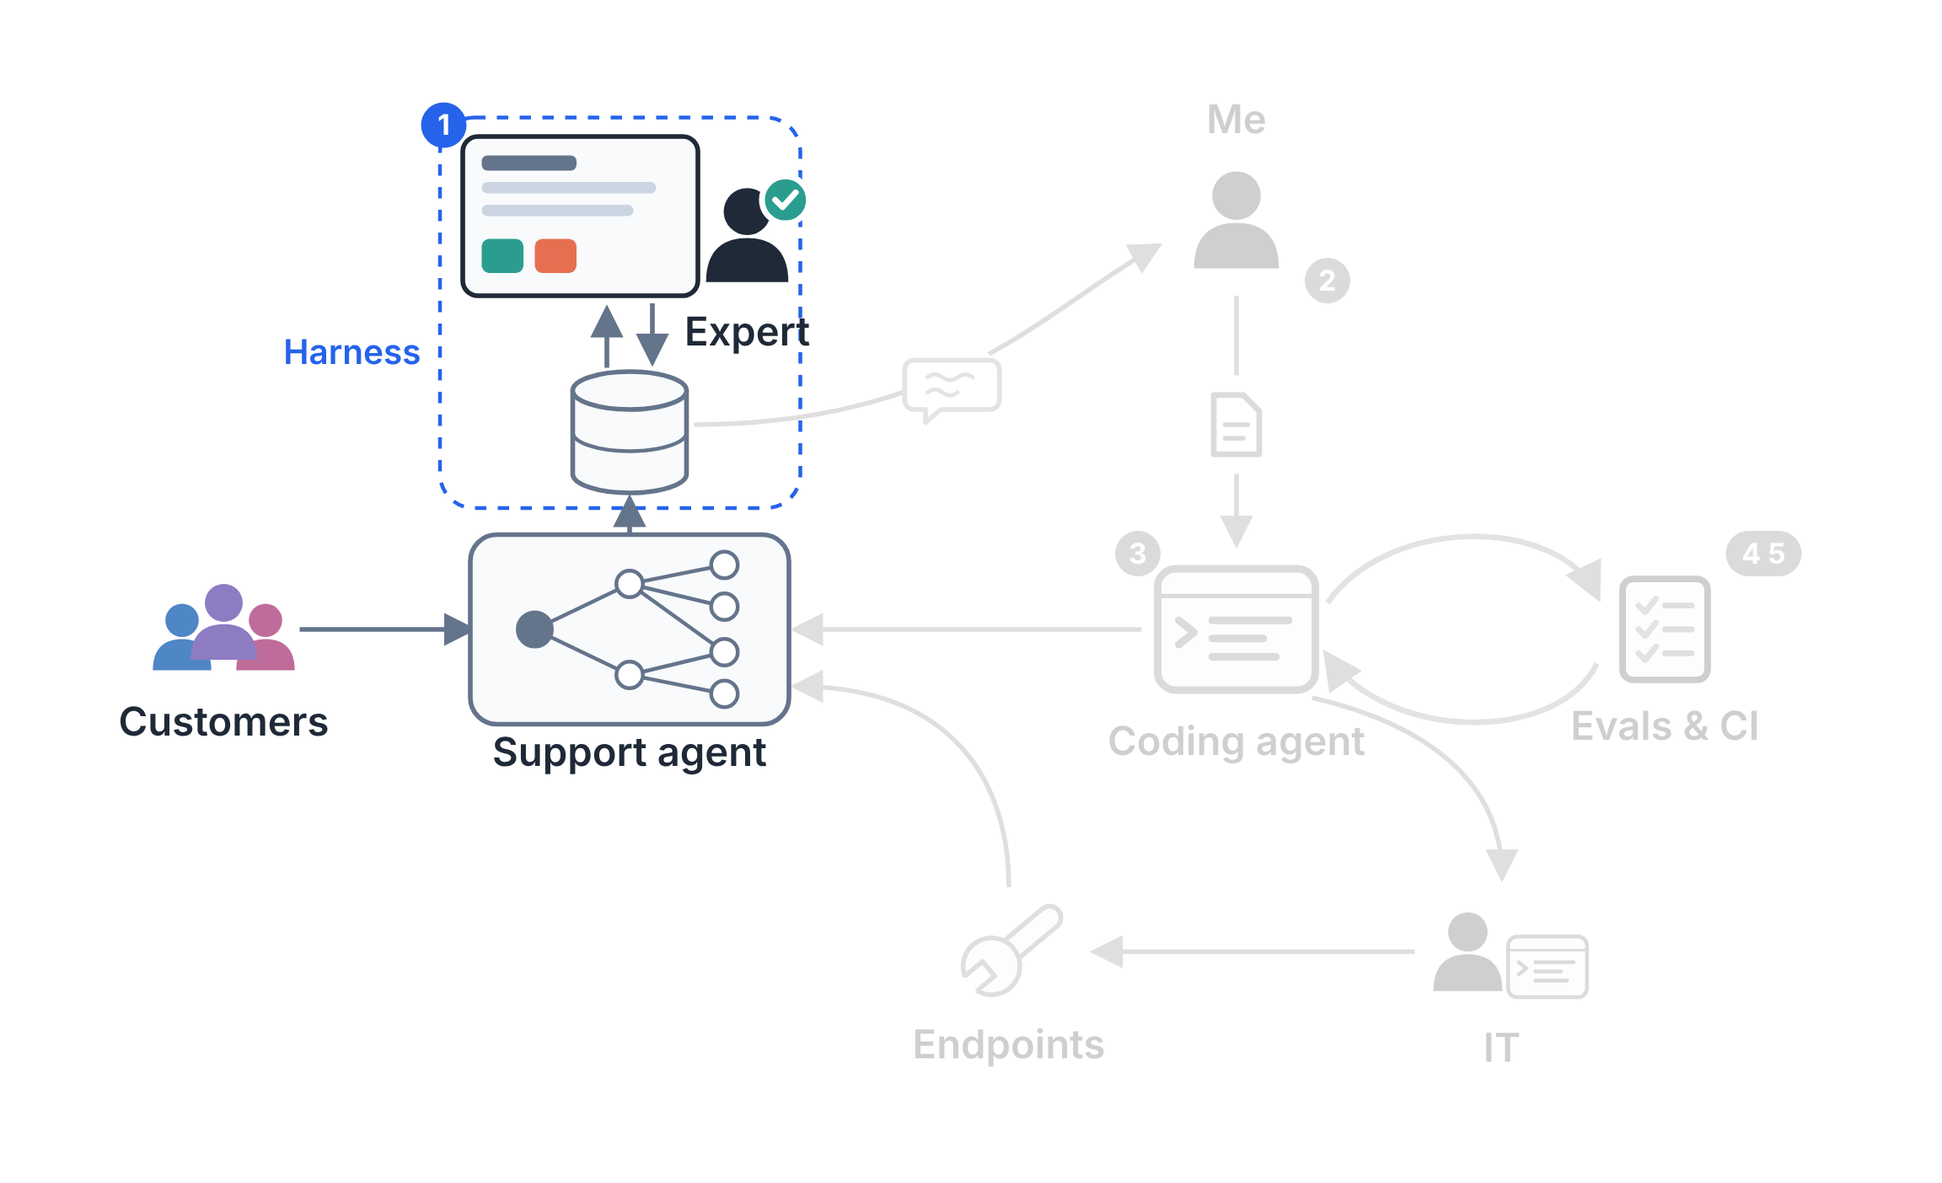
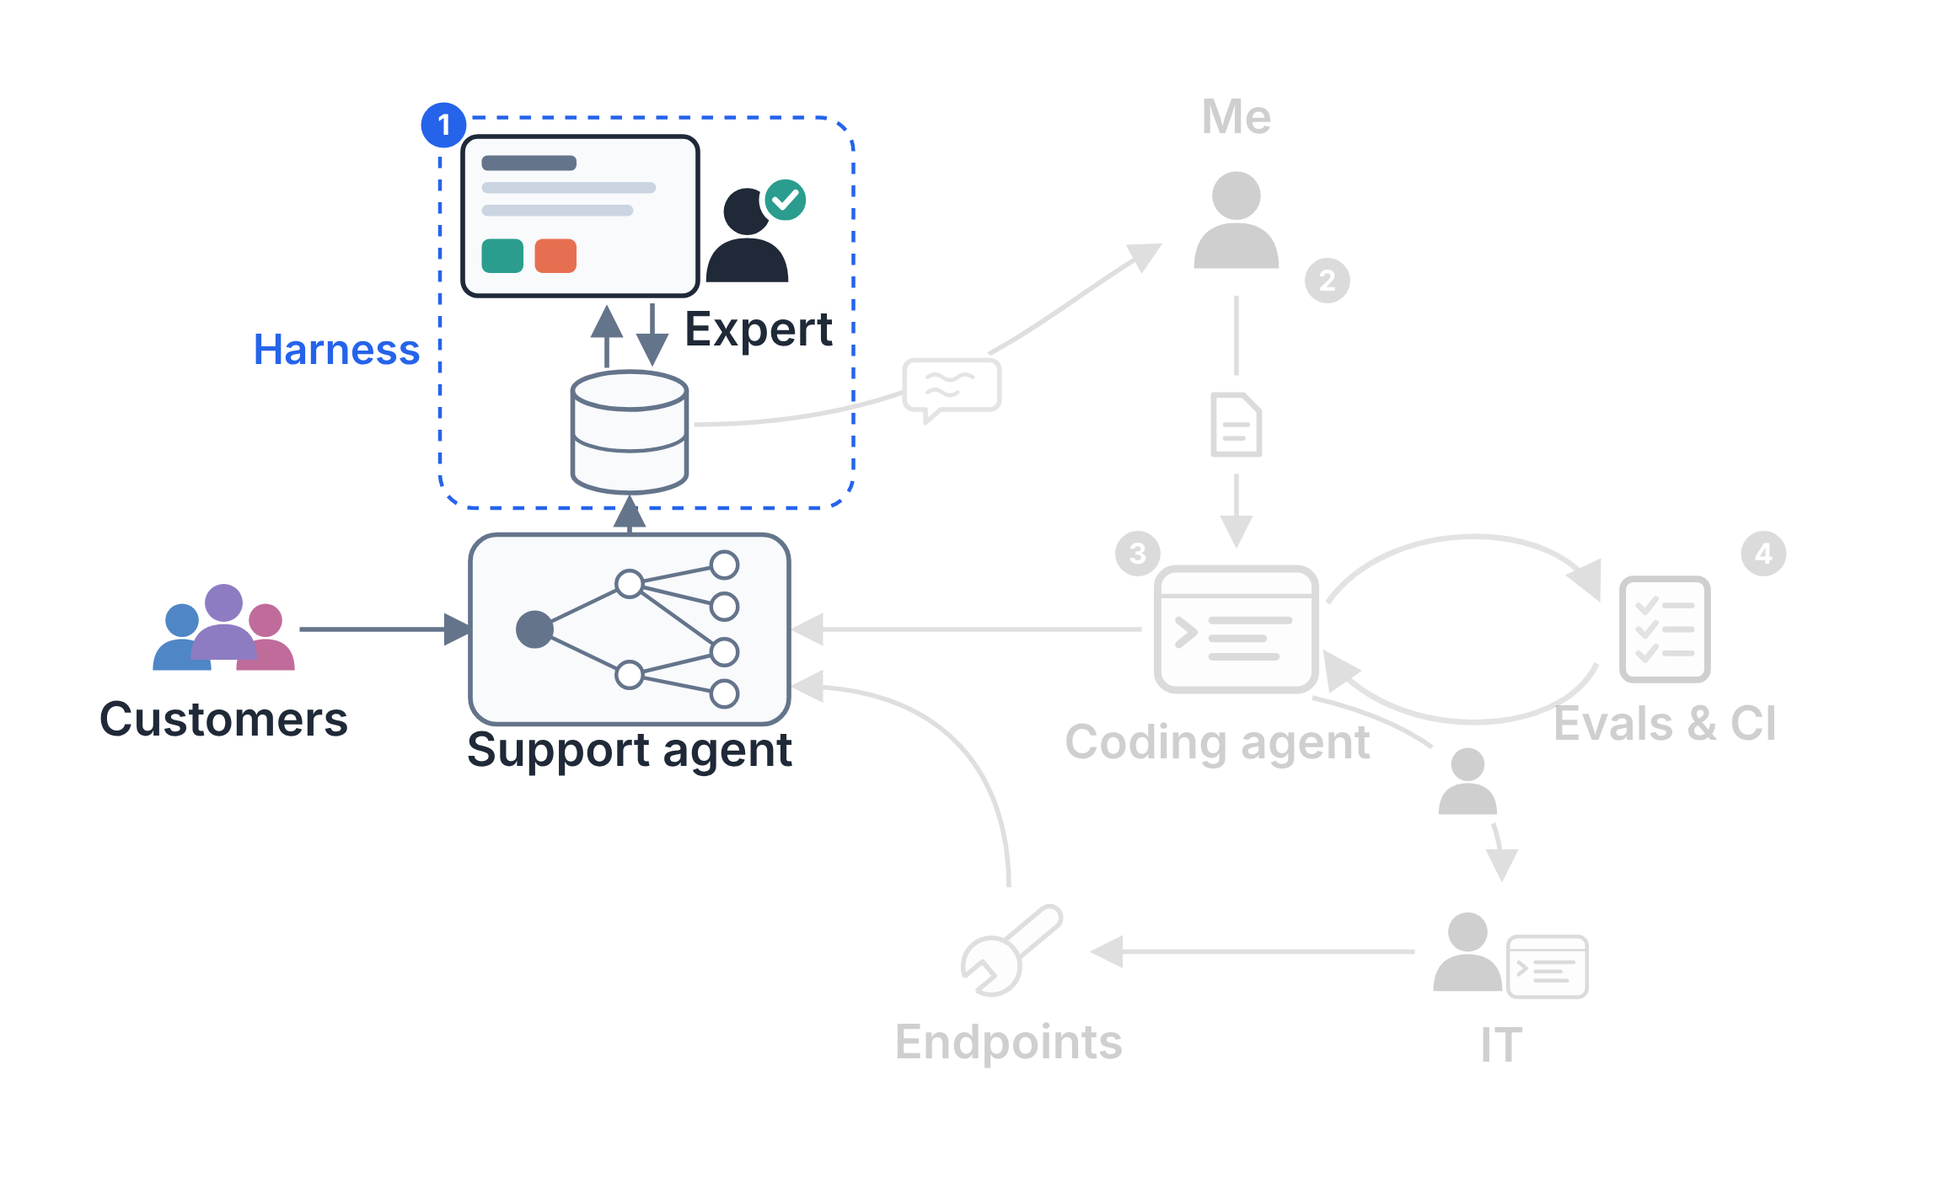
Tighten The Missing Compiler: narrative, maps and a slower loop animation
- Prose: move the tacit-knowledge paragraph next to the mockup it cites,
  make the shadow timeline's argument in the text through Goldratt, merge
  steps 4 and 5, use "intent DAG" throughout and cut repeated points.
- Maps: put the "before" bottleneck on the coding step, mark IT as a wait
  rather than a second bottleneck, show the person who hands IT the spec,
  tag the review screen "Build this", fix label and pill overlaps, and draw
  the section openers smaller on wide screens.
- Shadow loop: hold the first frame, slow the crosses to two thirds speed,
  drop two filler customers, fix the store-to-me connector, and start only
  once the figure is almost fully in view.
- Regenerate the Confluence PNGs.

Claude-Session: https://claude.ai/code/session_01QWCehSvL9kNTSDMZrThzYG

diff --git a/src/components/SystemMap.tsx b/src/components/SystemMap.tsx
@@ -5,9 +5,10 @@
  * back into the store; the store and the review screen are the harness I
  * built. I read the feedback there and steer the coding agent, which checks
  * itself against evals and CI (the compiler it has) and ships back into the
- * support agent. The coding agent also asks IT for endpoints, which become
- * the support agent's read tools. Old tickets, the offline replay that got the
- * project started, only appear on the map of the section about them.
+ * support agent. For a new read tool the coding agent writes a spec, which I
+ * hand to IT; their endpoint becomes the support agent's read tool. Old
+ * tickets, the offline replay that got the project started, only appear on
+ * the map of the section about them.
  *
  * Each section of the post shows the same map with its part highlighted and
  * the rest greyed out, so the post reads as one system seen from different
@@ -34,13 +35,14 @@ type EdgeId =
 export interface Preset {
   /** Parts drawn at full strength; everything else is greyed out. Empty means everything. */
   focus: (NodeId | EdgeId)[];
-  /** A pill next to one part, e.g. "Bottleneck". */
   /** Pills next to parts, e.g. "Bottleneck". */
   tags?: { on: NodeId; text: string }[];
   /** Before coding agents: I write the code myself. */
   meCodes?: boolean;
   /** Step 2 done by an agent with skills instead of me. */
   agentTranslates?: boolean;
+  /** Only shows where a section sits in the system, so wide screens get it smaller. */
+  small?: boolean;
   description: string;
 }
 
@@ -51,51 +53,59 @@ export const PRESETS = {
   overview: {
     focus: [],
     description:
-      'The whole system: customers write to the support agent; in shadow its drafts land in the feedback store, the expert grades them in the review screen, and grade and comment go back into the store, the harness I built. I read the feedback there and steer the coding agent, which checks itself against evals and CI and ships into the support agent. The coding agent also asks IT for endpoints, the support agent’s read tools.',
+      'The whole system: customers write to the support agent; in shadow its drafts land in the feedback store, the expert grades them in the review screen, and grade and comment go back into the store, the harness I built. I read the feedback there and steer the coding agent, which checks itself against evals and CI and ships into the support agent. For a new read tool, the coding agent writes a spec that I hand to IT, who build the endpoint.',
   },
   'coding-agents': {
     focus: ['coder', 'compile', 'tests'],
+    small: true,
     description: 'Highlighted: the coding agent and its evals and CI, the verdict it gets on every attempt.',
   },
   'no-compiler': {
     focus: SHADOW_PATH,
+    small: true,
     description: 'Highlighted: customer messages, the support agent’s drafts, and the expert, the only verdict a draft can get.',
   },
   loop: {
     focus: LOOP,
+    small: true,
     description:
-      'Highlighted: the loop. 1, the expert grades a draft in the review screen and the grade and comment are stored; 2, I read them and steer the coding agent; 3, the coding agent implements; 4 and 5, evals and CI check it; then it ships into the support agent.',
+      'Highlighted: the loop. 1, the expert grades a draft in the review screen and the grade and comment are stored; 2, I read them and steer the coding agent; 3, the coding agent implements; 4, evals and CI check it; then it ships into the support agent.',
   },
   before: {
     focus: ['comment', 'me', 'plan', 'coder', 'compile', 'tests', 'ships', 'spec', 'it'],
     meCodes: true,
-    tags: [{ on: 'me', text: 'Bottleneck' }],
-    description: 'Before coding agents: I read the feedback, write the code and ask IT for endpoints myself; everything goes through me, the bottleneck.',
+    tags: [{ on: 'coder', text: 'Bottleneck' }],
+    description: 'Before coding agents: I read the feedback, write the code and ask IT for endpoints myself; writing the code is the bottleneck.',
   },
   today: {
     focus: ['store', 'review', 'expert', 'graded', 'coder', 'spec', 'it'],
     tags: [
       { on: 'expert', text: 'Bottleneck' },
-      { on: 'it', text: 'Bottleneck' },
+      { on: 'it', text: 'Wait' },
     ],
-    description: 'Today: the coding agent writes the code; the bottlenecks are the expert’s grading and the handoff to IT.',
+    description: 'Today: the coding agent writes the code; the bottleneck is the expert’s grading, and the handoff to IT adds a wait.',
   },
   endpoints: {
     focus: ['coder', 'spec', 'it', 'build', 'endpoints', 'reads', 'support'],
-    description: 'Highlighted: the coding agent sends IT a spec; IT builds the endpoint, which becomes the support agent’s read tool.',
+    small: true,
+    description:
+      'Highlighted: the coding agent writes a spec, I hand it to IT, and IT builds the endpoint, which becomes the support agent’s read tool.',
   },
   shadow: {
     focus: [...SHADOW_PATH, 'tickets', 'replay'],
+    small: true,
     description: 'Highlighted: live customer messages through the support agent to the expert, and old tickets replayed offline.',
   },
   'review-screen': {
     focus: ['expert', 'review', 'graded'],
-    tags: [{ on: 'store', text: 'Not this' }],
-    description: 'Highlighted: the expert’s review screen. The store behind it stays greyed out.',
+    tags: [{ on: 'expert', text: 'Build this' }],
+    small: true,
+    description: 'Highlighted: the expert’s review screen, the part worth building. The store behind it stays greyed out.',
   },
   'next-bottleneck': {
     focus: ['me'],
     tags: [{ on: 'me', text: 'Next bottleneck' }],
+    small: true,
     description: 'Highlighted: me, turning feedback into steering for the coding agent, marked as the next bottleneck.',
   },
   'could-be': {
@@ -107,6 +117,7 @@ export const PRESETS = {
   start: {
     focus: SHADOW_PATH,
     tags: [{ on: 'expert', text: 'Build first' }],
+    small: true,
     description: 'Highlighted: the shadow path, the store and the expert’s review screen, the first thing to build.',
   },
 } satisfies Record<string, Preset>;
@@ -118,9 +129,11 @@ interface Layout {
   height: number;
   /** Bigger in the narrow layout, which is shown smaller. */
   labelSize?: number;
+  /** The font size of a preset's pills. */
+  tagSize?: number;
   N: Record<NodeId, Point>;
-  /** Paths for each edge; `rides` puts the comment or the plan on it. */
-  edges: Record<Exclude<EdgeId, 'compile'>, { d: string; dashed?: boolean; rides?: { at: Point; icon: 'comment' | 'plan' } }>;
+  /** Paths for each edge; `rides` puts the comment, the plan or the person passing the spec on it. */
+  edges: Record<Exclude<EdgeId, 'compile'>, { d: string; dashed?: boolean; rides?: { at: Point; icon: 'comment' | 'plan' | 'person' } }>;
   /** The coding agent's loop with evals and CI: there and back. */
   compile: [string, string];
   labels: Record<NodeId, Point & { anchor?: 'start' | 'middle' | 'end' }>;
@@ -157,7 +170,8 @@ const WIDE: Layout = (() => {
       comment: { d: 'M334,192 C470,192 520,130 578,98', rides: { at: { x: 470, y: 172 }, icon: 'comment' } },
       plan: { d: `M${N.me.x},${N.me.y + 40} V${N.coder.y - 46}`, rides: { at: { x: 620, y: 192 }, icon: 'plan' } },
       ships: { d: `M${N.coder.x - 50},300 H${N.support.x + 88}` },
-      spec: { d: `M${N.coder.x + 40},${N.coder.y + 36} C720,350 ${N.it.x},380 ${N.it.x},${N.it.y - 40}` },
+      // The spec reaches IT through me, pinging someone on Teams.
+      spec: { d: `M${N.coder.x + 40},${N.coder.y + 36} C720,350 ${N.it.x},380 ${N.it.x},${N.it.y - 40}`, rides: { at: { x: 742, y: 380 }, icon: 'person' } },
       build: { d: `M${N.it.x - 46},470 H${N.endpoints.x + 46}` },
       reads: { d: `M${N.endpoints.x},${N.endpoints.y - 34} C${N.endpoints.x},380 470,330 ${N.support.x + 88},330` },
     },
@@ -167,7 +181,7 @@ const WIDE: Layout = (() => {
     ],
     labels: {
       customers: { x: 86, y: 356 },
-      tickets: { x: 86, y: 522 },
+      tickets: { x: 86, y: 538 },
       support: { x: 300, y: 372 },
       store: { x: 0, y: 0 },
       expert: { x: 362, y: 150 },
@@ -185,11 +199,12 @@ const WIDE: Layout = (() => {
     },
     tags: {
       expert: { x: 110, y: 84 },
-      store: { x: 110, y: 196 },
-      me: { x: 770, y: 84 },
+      // Up and to the right, clear of step 2's badge in the small map's bigger pills.
+      me: { x: 792, y: 76 },
+      coder: { x: 620, y: 414 },
       it: { x: 870, y: 410 },
     },
-    harness: { x: 200, y: 30, w: 190, h: 206, label: { x: 190, y: 160, anchor: 'end' } },
+    harness: { x: 200, y: 30, w: 218, h: 206, label: { x: 190, y: 160, anchor: 'end' } },
   };
 })();
 
@@ -225,7 +240,7 @@ const TALL: Layout = (() => {
       comment: { d: 'M188,356 C320,356 400,410 440,452', rides: { at: { x: 330, y: 372 }, icon: 'comment' } },
       plan: { d: 'M480,436 V280', rides: { at: { x: 480, y: 358 }, icon: 'plan' } },
       ships: { d: 'M430,240 H240' },
-      spec: { d: 'M526,256 C618,330 618,570 528,604' },
+      spec: { d: 'M526,256 C618,330 618,570 528,604', rides: { at: { x: 592, y: 400 }, icon: 'person' } },
       build: { d: 'M434,626 H188' },
       reads: { d: 'M116,616 C36,580 28,280 60,262' },
     },
@@ -249,9 +264,10 @@ const TALL: Layout = (() => {
       tests: { x: 424, y: 76 },
     },
     tags: {
-      expert: { x: 350, y: 522 },
-      store: { x: 362, y: 424 },
-      me: { x: 384, y: 540 },
+      expert: { x: 372, y: 520 },
+      // Under the label, clear of the spec's curve on the right.
+      me: { x: 436, y: 578 },
+      coder: { x: 335, y: 266 },
       it: { x: 340, y: 664 },
     },
     harness: { x: 70, y: 318, w: 236, h: 196, label: { x: 74, y: 548, anchor: 'start' } },
@@ -270,7 +286,7 @@ const LABELS: Partial<Record<NodeId, string>> = {
   endpoints: 'Endpoints',
 };
 
-const STEPS: Partial<Record<NodeId, string>> = { expert: '1', me: '2', coder: '3', tests: '4 5' };
+const STEPS: Partial<Record<NodeId, string>> = { expert: '1', me: '2', coder: '3', tests: '4' };
 
 function Dim({ on, children }: { on: boolean; children: ReactNode }) {
   return (
@@ -427,10 +443,17 @@ function MapSvg({ layout, preset, id, className }: { layout: Layout; preset: Pre
         return (
           <Dim key={e} on={on(e)}>
             <path d={edge.d} fill="none" stroke={color('node-border')} strokeWidth={2.5} strokeDasharray={edge.dashed ? '7 6' : undefined} markerEnd={`url(#${marker})`} />
-            {edge.rides && (
+            {/* Before coding agents the spec comes from me already, so nobody passes it on. */}
+            {edge.rides && !(edge.rides.icon === 'person' && p.meCodes) && (
               <g transform={`translate(${edge.rides.at.x} ${edge.rides.at.y})`}>
                 <circle r={26} fill={color('surface')} />
-                {edge.rides.icon === 'comment' ? <Comment x={0} y={0} /> : <Reply x={0} y={0} stroke={color('added')} scale={1.2} />}
+                {edge.rides.icon === 'comment' ? (
+                  <Comment x={0} y={0} />
+                ) : edge.rides.icon === 'person' ? (
+                  <Person x={0} y={0} scale={1.1} fill={color('text')} />
+                ) : (
+                  <Reply x={0} y={0} stroke={color('added')} scale={1.2} />
+                )}
               </g>
             )}
           </Dim>
@@ -463,10 +486,12 @@ function MapSvg({ layout, preset, id, className }: { layout: Layout; preset: Pre
 
       {(p.tags ?? []).map((t) => {
         const at = layout.tags[t.on]!;
+        const size = layout.tagSize ?? 19;
+        const width = t.text.length * size * 0.59 + 44;
         return (
           <g key={t.on} transform={`translate(${at.x} ${at.y})`}>
-            <rect x={-(t.text.length * 5.6 + 22)} y={-19} width={t.text.length * 11.2 + 44} height={38} rx={19} fill={color('warn')} />
-            <text y={0} dy="0.35em" textAnchor="middle" fontSize={19} fontWeight={700} fill="#1f2937">
+            <rect x={-width / 2} y={-size} width={width} height={size * 2} rx={size} fill={color('warn')} />
+            <text y={0} dy="0.35em" textAnchor="middle" fontSize={size} fontWeight={700} fill="#1f2937">
               {t.text}
             </text>
           </g>
@@ -476,12 +501,23 @@ function MapSvg({ layout, preset, id, className }: { layout: Layout; preset: Pre
   );
 }
 
+/**
+ * The wide map drawn at about two thirds of the column: bigger type, so it
+ * stays readable, with two labels nudged clear of the lines next to them.
+ */
+const WIDE_SMALL: Layout = {
+  ...WIDE,
+  labelSize: 25,
+  tagSize: 23,
+  labels: { ...WIDE.labels, expert: { x: 368, y: 150 }, coder: { x: 610, y: 368 } },
+};
+
 /** Both layouts; SystemMap.astro shows the one that fits the figure's width. */
 export default function SystemMap({ preset, id }: { preset: PresetName; id: string }) {
   const p: Preset = PRESETS[preset];
   return (
     <>
-      <MapSvg layout={WIDE} preset={p} id={`${id}-wide`} className="map-wide" />
+      <MapSvg layout={p.small ? WIDE_SMALL : WIDE} preset={p} id={`${id}-wide`} className="map-wide" />
       <MapSvg layout={TALL} preset={p} id={`${id}-tall`} className="map-tall" />
     </>
   );

diff --git a/src/remotion/ShadowLoop.tsx b/src/remotion/ShadowLoop.tsx
@@ -113,26 +113,28 @@ const SCRIPT: Visit[] = [
   { path: ['payments'] },
   { path: ['access', 'accessOther'], grows: { node: 'locked', edge: ['access', 'locked'] } },
   { path: ['access', 'locked'] },
-  { path: ['cards', 'blocked'] },
   { path: ['cards', 'cardsOther'], grows: { edge: ['cards', 'locked'] } },
   { path: ['cards', 'locked'] },
-  { path: ['access', 'login'] },
 ];
 
 /** Parts of the DAG that only exist once a cross has grown them. */
 const GROWN_NODES = new Set(SCRIPT.flatMap((v) => (v.grows?.node ? [v.grows.node] : [])));
 const GROWN_EDGES = new Set(SCRIPT.flatMap((v) => (v.grows ? [edgeKey(...v.grows.edge)] : [])));
 
-// Beats, in frames.
+// Beats, in frames. The opening frame holds a moment, so the scene can be
+// read before anything moves.
+const LEAD = 30;
 const ENTER = 10;
 const HOP = 11;
 const TO_EXPERT = 14;
-const TO_STORE = 12;
-const TO_ME = 14;
-const TO_AGENT = 12;
-const TYPING = 24;
-const SPARK = 14;
-const GROW = 18;
+// A cross and the fix it leads to are what the figure is about, so they move
+// at about two thirds of the speed of the checks.
+const TO_STORE = 18;
+const TO_ME = 21;
+const TO_AGENT = 18;
+const TYPING = 36;
+const SPARK = 21;
+const GROW = 27;
 const HOLD = 60;
 
 interface Layout {
@@ -197,7 +199,7 @@ interface Timed extends Visit {
 }
 
 const TIMELINE: Timed[] = [];
-let cursor = 0;
+let cursor = LEAD;
 for (const [index, visit] of SCRIPT.entries()) {
   const start = cursor;
   const reach = visit.path.map((_, i) => start + ENTER + HOP * (i + 1));
@@ -205,13 +207,13 @@ for (const [index, visit] of SCRIPT.entries()) {
   const gradeAt = replyAt + TO_EXPERT;
   const timed: Timed = { ...visit, index, color: PALETTE[index % PALETTE.length], ok: !visit.grows, start, reach, replyAt, gradeAt };
   if (visit.grows) {
-    timed.storeAt = gradeAt + 10;
-    timed.meAt = timed.storeAt + TO_STORE + 4;
-    timed.planAt = timed.meAt + TO_ME + 6;
+    timed.storeAt = gradeAt + 15;
+    timed.meAt = timed.storeAt + TO_STORE + 6;
+    timed.planAt = timed.meAt + TO_ME + 9;
     timed.typingAt = timed.planAt + TO_AGENT;
     timed.sparkAt = timed.typingAt + TYPING;
     timed.growAt = timed.sparkAt + SPARK;
-    cursor = timed.growAt + GROW + 6;
+    cursor = timed.growAt + GROW + 9;
   } else {
     cursor = gradeAt - 10;
   }
@@ -226,6 +228,12 @@ const grownAt = (key: string) => {
   return visit?.growAt ?? 0;
 };
 
+/** The point `by` units from `from` toward `to`: where a line between two icons leaves the first. */
+const toward = (from: Point, to: Point, by: number): Point => {
+  const length = Math.hypot(to.x - from.x, to.y - from.y);
+  return mix(from, to, by / length);
+};
+
 /** How lit a visit's path is: on while the message travels and is graded, then fading out. */
 const lit = (frame: number, visit: Timed, from: number) => {
   if (frame < from) return 0;
@@ -235,6 +243,9 @@ const lit = (frame: number, visit: Timed, from: number) => {
 export const ShadowLoop = ({ layout = 'wide' }: { layout?: LayoutName }) => {
   const L: Layout = LAYOUTS[layout];
   const { expert: EXPERT, agent: AGENT, store: STORE, me: ME } = L;
+  // The dashed line from the store to me, from the edge of one icon to the other's.
+  const storeOut = toward(STORE, ME, 38);
+  const meIn = toward(ME, STORE, 34);
   /** A point of the DAG in this layout's coordinates. */
   const D = (p: Point): Point => ({ x: p.x + L.dag.x, y: p.y + L.dag.y });
   const frame = useCurrentFrame();
@@ -370,7 +381,7 @@ export const ShadowLoop = ({ layout = 'wide' }: { layout?: LayoutName }) => {
 
         {/* The expert, their grades, the store, me and the coding agent */}
         <path
-          d={`M${EXPERT.x},${L.tallyY + 18} V${STORE.y - 40} M${STORE.x + 36},${STORE.y} L${ME.x - 30},${ME.y} M${ME.x + 30},${ME.y} H${AGENT.x - 44}`}
+          d={`M${EXPERT.x},${L.tallyY + 18} V${STORE.y - 40} M${storeOut.x},${storeOut.y} L${meIn.x},${meIn.y} M${ME.x + 30},${ME.y} H${AGENT.x - 44}`}
           fill="none"
           stroke={color('edge')}
           strokeWidth={2}

diff --git a/src/components/LoopAnimation.tsx b/src/components/LoopAnimation.tsx
@@ -2,8 +2,9 @@
  * Plays a Remotion composition from src/remotion/ in a blog post. Used through
  * LoopAnimation.astro, which handles the Confluence copy and the no-JS fallback.
  *
- * The animation starts the first time the figure is mostly in view, plays
- * once and rests on its last frame, which is the full picture. With
+ * The animation starts the first time the figure is almost fully in view, so
+ * the reader is looking at it rather than at the text above, plays once and
+ * rests on its last frame, which is the full picture. With
  * prefers-reduced-motion it shows only that last frame. A figure narrower
  * than NARROW (a phone, or a narrow column) gets the composition's tall layout.
  */
@@ -40,13 +41,16 @@ export default function LoopAnimation({ name }: { name: AnimationName }) {
 
   useEffect(() => {
     if (still !== false || !container.current) return;
+    // In view: 90% of the figure, or, when it is taller than the screen, most of the screen.
+    const inView = (entry: IntersectionObserverEntry) =>
+      entry.intersectionRatio >= 0.9 || entry.intersectionRect.height >= 0.8 * (entry.rootBounds?.height ?? Infinity);
     const observer = new IntersectionObserver(
       (entries) => {
-        if (!entries.some((entry) => entry.isIntersecting)) return;
+        if (!entries.some(inView)) return;
         observer.disconnect();
         player.current?.play();
       },
-      { threshold: 0.6 }
+      { threshold: [0.25, 0.5, 0.75, 0.9, 1] }
     );
     observer.observe(container.current);
     return () => observer.disconnect();

diff --git a/tests/loop-animation.spec.ts b/tests/loop-animation.spec.ts
@@ -13,7 +13,7 @@ test.describe('Loop animations', () => {
     await expect(figure.getByText('Login problem')).toBeAttached();
     await expect(figure.getByText('Password reset')).toHaveCount(0);
 
-    // Plays in real time; the first cross grows its leaf about six seconds in.
+    // Plays in real time; the first cross grows its leaf about ten seconds in.
     await figure.scrollIntoViewIfNeeded();
     await expect(figure.getByText('Password reset')).toBeVisible({ timeout: 20_000 });
   });
